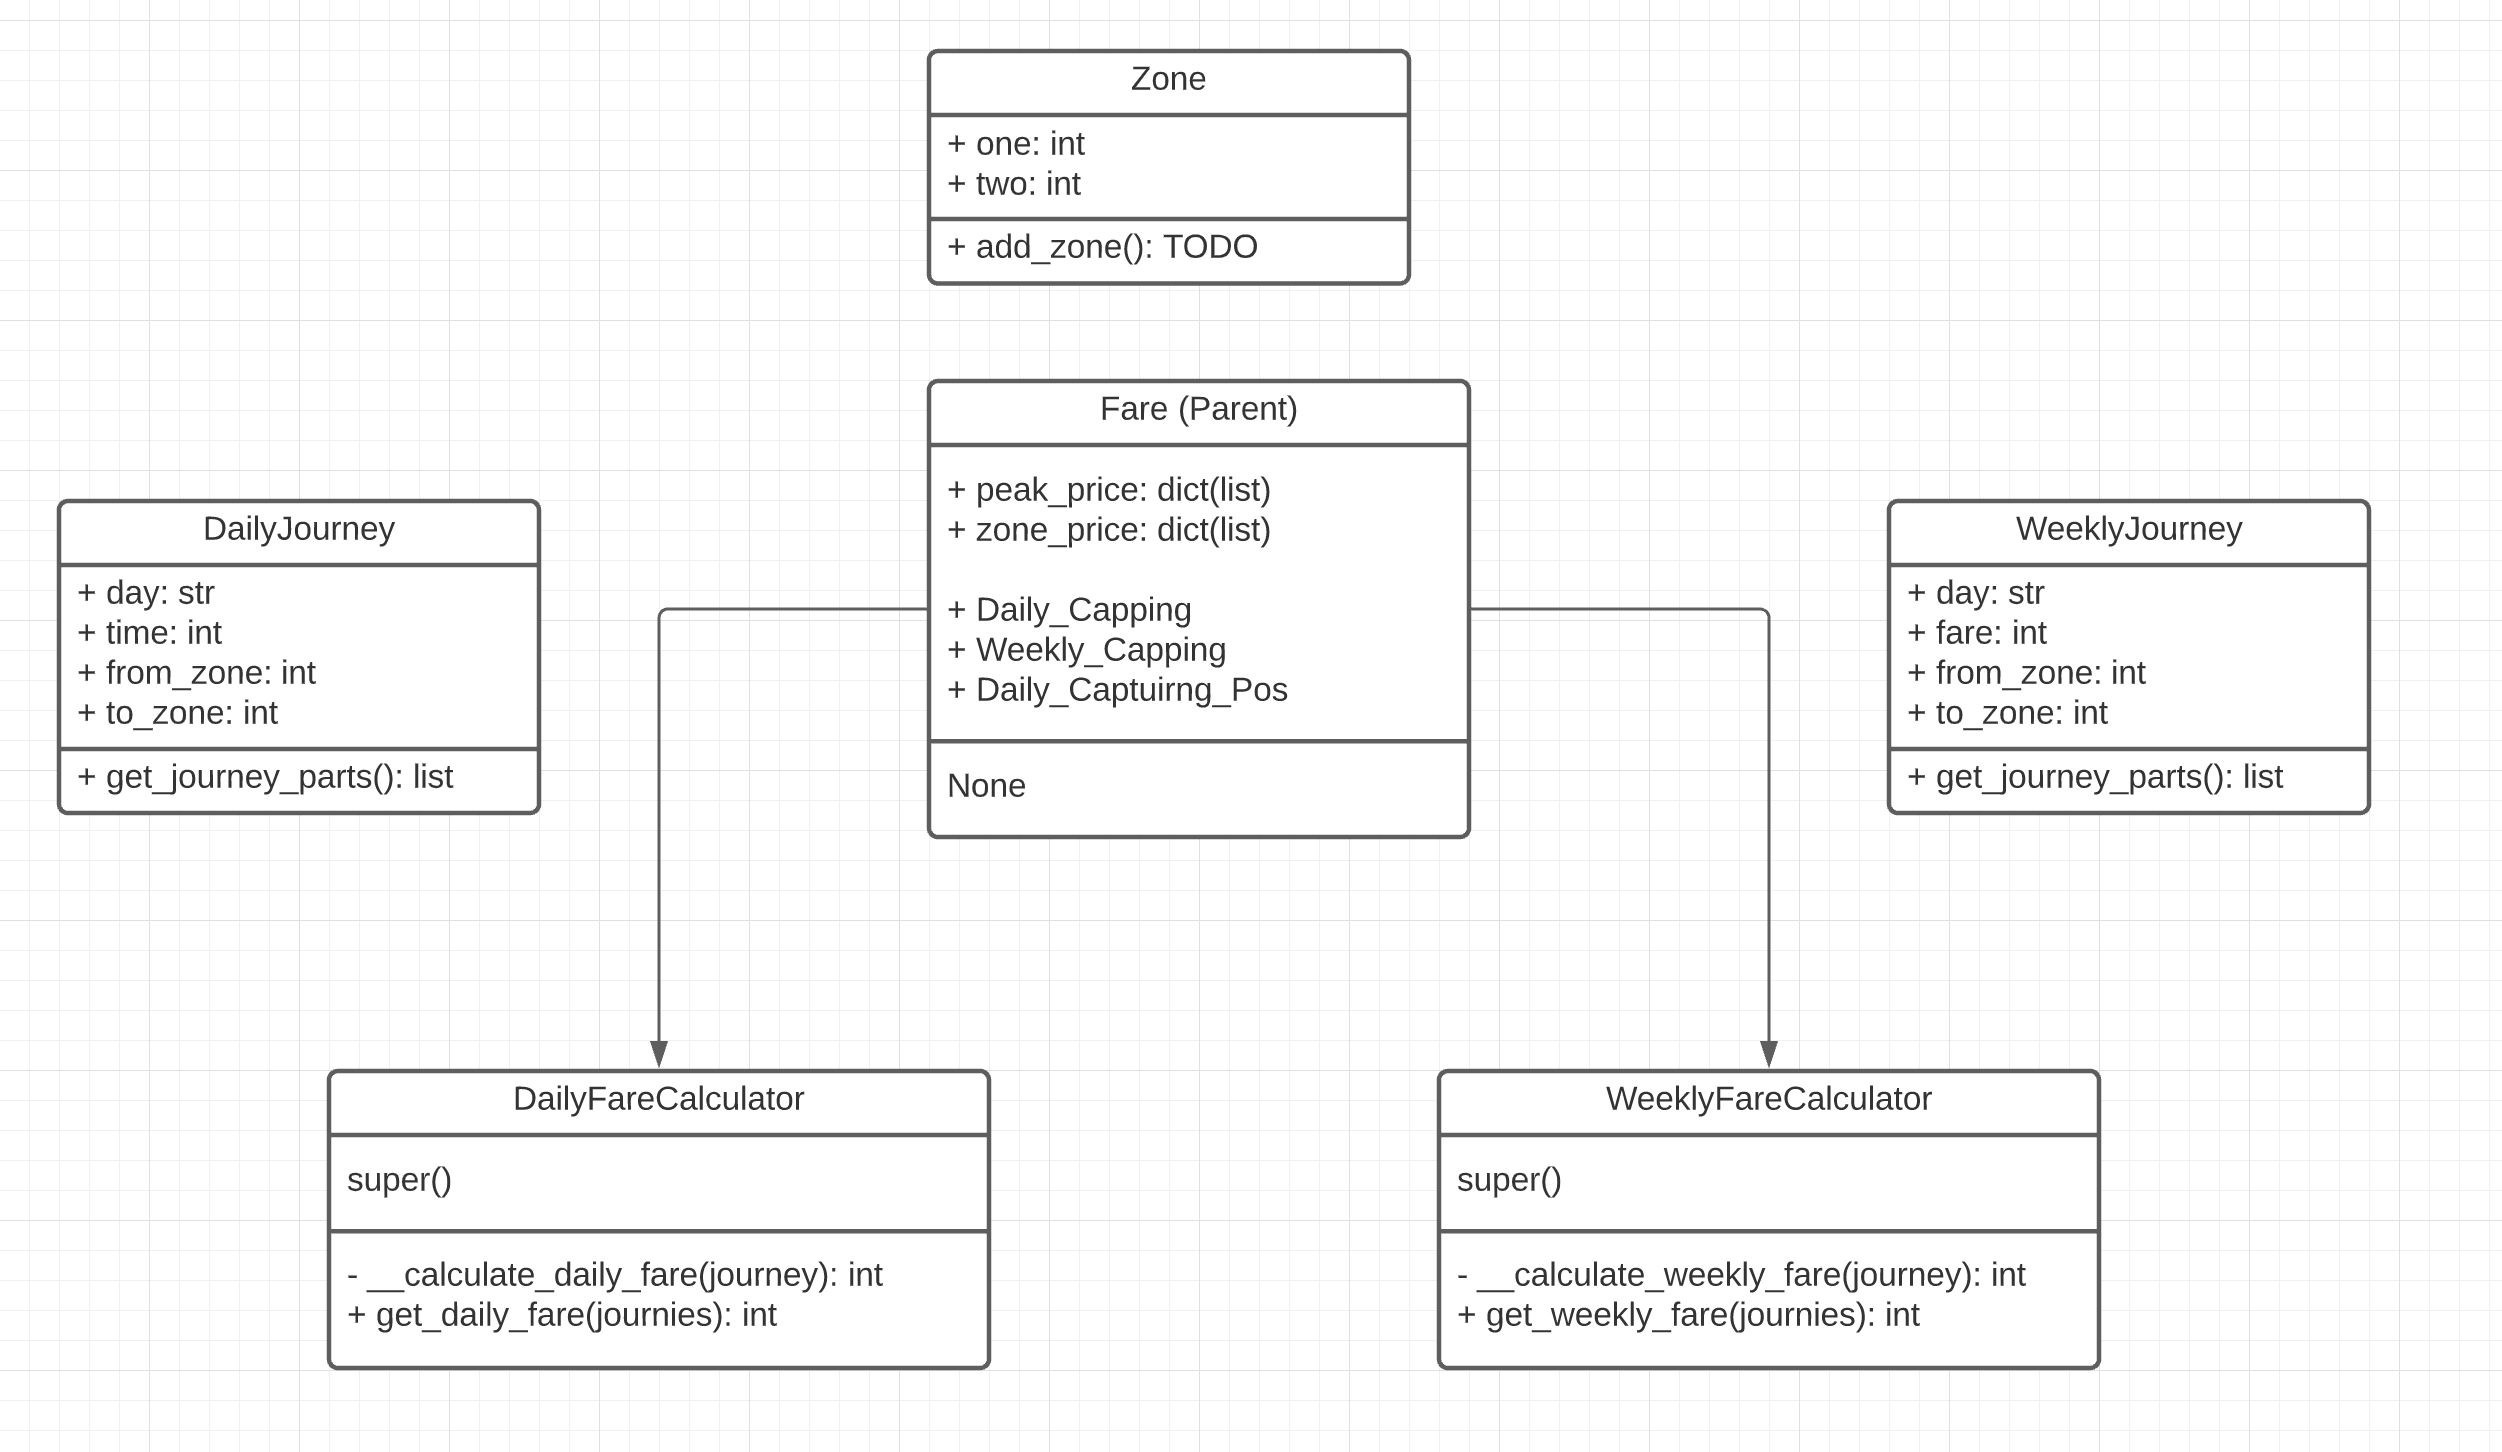
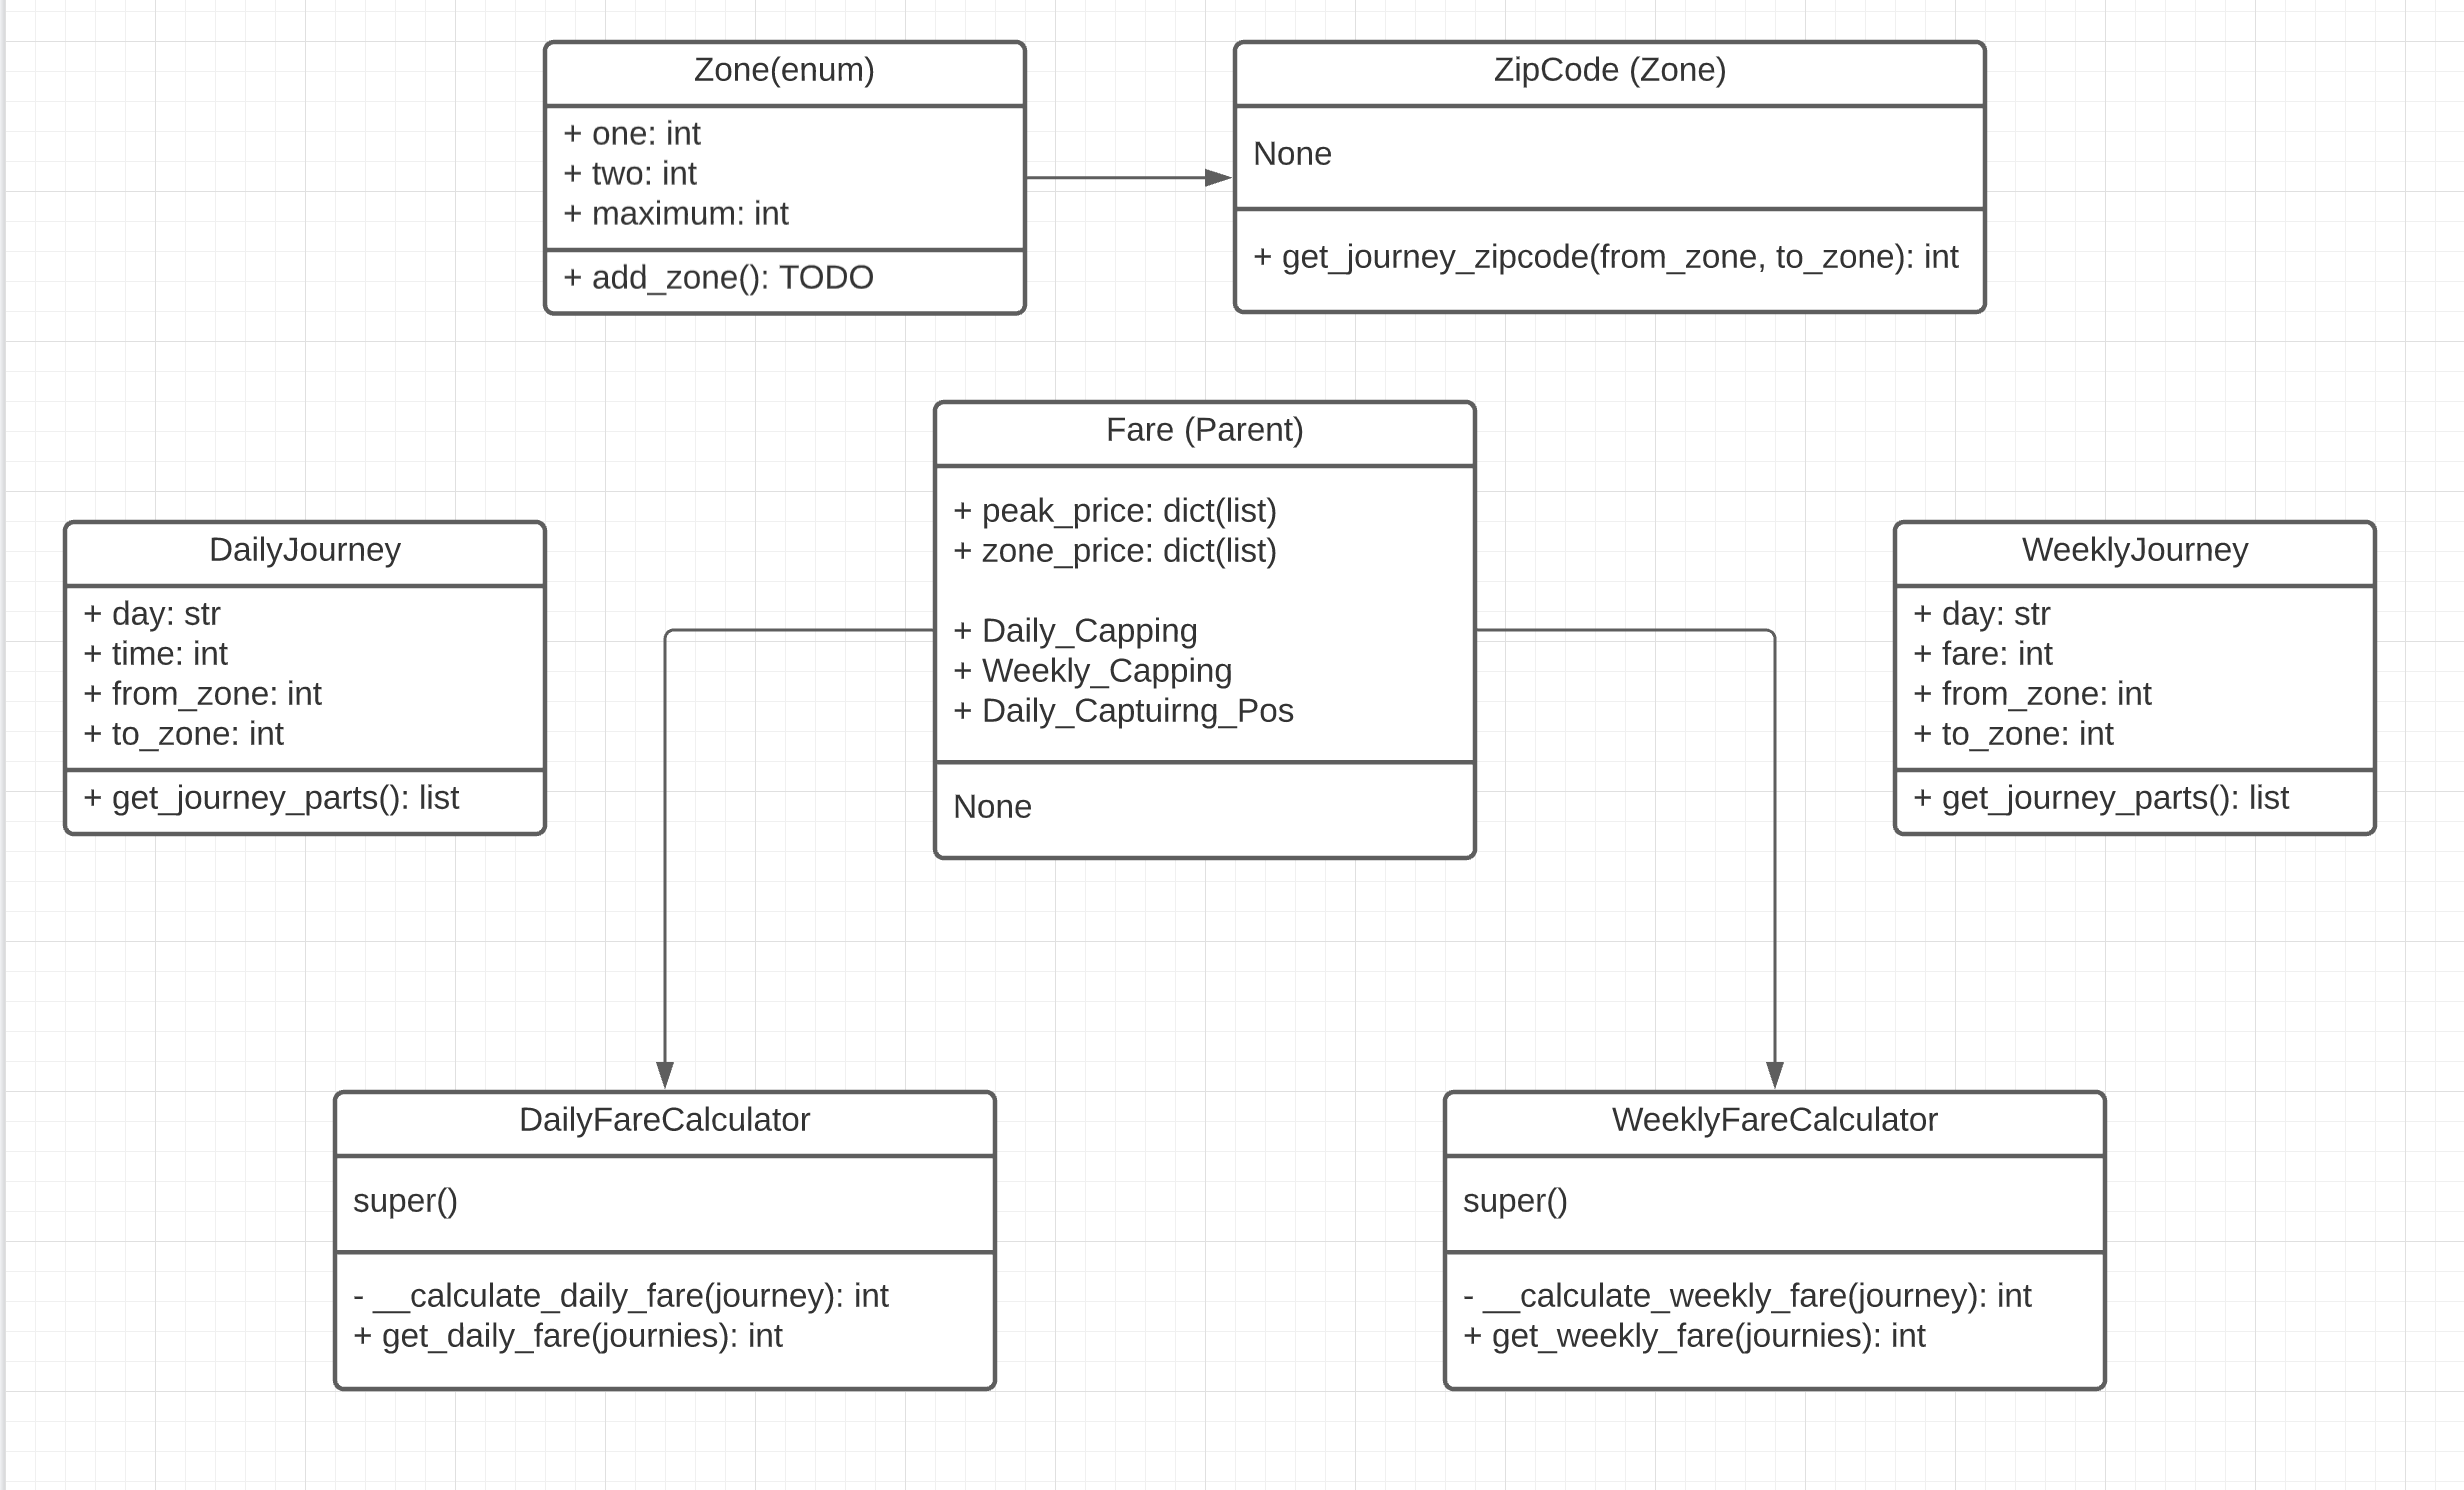
docs(README.md): update UML diagram

diff --git a/tests/results/report.html b/tests/results/report.html
@@ -243,7 +243,7 @@ function filterTable(elem) { // eslint-disable-line no-unused-vars
 }
 </script>
     <h1>report.html</h1>
-    <p>Report generated on 12-Oct-2021 at 03:45:30 by <a href="https://pypi.python.org/pypi/pytest-html">pytest-html</a> v3.1.1</p>
+    <p>Report generated on 12-Oct-2021 at 12:05:32 by <a href="https://pypi.python.org/pypi/pytest-html">pytest-html</a> v3.1.1</p>
     <h2>Environment</h2>
     <table id="environment">
       <tr>
@@ -262,7 +262,7 @@ function filterTable(elem) { // eslint-disable-line no-unused-vars
         <td>Python</td>
         <td>3.8.5</td></tr></table>
     <h2>Summary</h2>
-    <p>2 tests ran in 0.13 seconds. </p>
+    <p>2 tests ran in 0.12 seconds. </p>
     <p class="filter" hidden="true">(Un)check the boxes to filter the results.</p><input checked="true" class="filter" data-test-result="passed" hidden="true" name="filter_checkbox" onChange="filterTable(this)" type="checkbox"/><span class="passed">2 passed</span>, <input checked="true" class="filter" data-test-result="skipped" disabled="true" hidden="true" name="filter_checkbox" onChange="filterTable(this)" type="checkbox"/><span class="skipped">0 skipped</span>, <input checked="true" class="filter" data-test-result="failed" disabled="true" hidden="true" name="filter_checkbox" onChange="filterTable(this)" type="checkbox"/><span class="failed">0 failed</span>, <input checked="true" class="filter" data-test-result="error" disabled="true" hidden="true" name="filter_checkbox" onChange="filterTable(this)" type="checkbox"/><span class="error">0 errors</span>, <input checked="true" class="filter" data-test-result="xfailed" disabled="true" hidden="true" name="filter_checkbox" onChange="filterTable(this)" type="checkbox"/><span class="xfailed">0 expected failures</span>, <input checked="true" class="filter" data-test-result="xpassed" disabled="true" hidden="true" name="filter_checkbox" onChange="filterTable(this)" type="checkbox"/><span class="xpassed">0 unexpected passes</span>
     <h2>Results</h2>
     <table id="results-table">
@@ -282,8 +282,8 @@ function filterTable(elem) { // eslint-disable-line no-unused-vars
           <td class="col-links"></td></tr>
         <tr>
           <td class="extra" colspan="4">
-            <div class="log"> -------------------------------Captured log call-------------------------------- <br/>INFO     src.fare_calculators.daily_fare_calculator:daily_fare_calculator.py:59 ## journies: [[&#x27;Monday&#x27;, 10.2, 2, 1], [&#x27;Monday&#x27;, 10.45, 1, 1], [&#x27;Monday&#x27;, 16.15, 1, 1], [&#x27;Monday&#x27;, 18.15, 1, 1], [&#x27;Monday&#x27;, 19.0, 1, 2]]
-INFO     src.fare_calculators.daily_fare_calculator:daily_fare_calculator.py:63 ## Total consolidated fare for the above journies: 110<br/></div></td></tr></tbody>
+            <div class="log"> -------------------------------Captured log call-------------------------------- <br/>INFO     src.fare_calculators.daily_fare_calculator:daily_fare_calculator.py:56 ## journies: [[&#x27;Monday&#x27;, 10.2, 2, 1], [&#x27;Monday&#x27;, 10.45, 1, 1], [&#x27;Monday&#x27;, 16.15, 1, 1], [&#x27;Monday&#x27;, 18.15, 1, 1], [&#x27;Monday&#x27;, 19.0, 1, 2]]
+INFO     src.fare_calculators.daily_fare_calculator:daily_fare_calculator.py:60 ## Total consolidated fare for the above journies: 110<br/></div></td></tr></tbody>
       <tbody class="passed results-table-row">
         <tr>
           <td class="col-result">Passed</td>
@@ -292,5 +292,5 @@ INFO     src.fare_calculators.daily_fare_calculator:daily_fare_calculator.py:63 
           <td class="col-links"></td></tr>
         <tr>
           <td class="extra" colspan="4">
-            <div class="log"> -------------------------------Captured log call-------------------------------- <br/>INFO     src.fare_calculators.weekly_fare_calculator:weekly_fare_calculator.py:64 ## daily journies: [[&#x27;Monday&#x27;, 120, 1, 2], [&#x27;Tuesday&#x27;, 120, 1, 2], [&#x27;Wednesday&#x27;, 120, 1, 2], [&#x27;Thursday&#x27;, 120, 1, 2], [&#x27;Friday&#x27;, 80, 1, 1], [&#x27;Saturday&#x27;, 40, 1, 2]]
-INFO     src.fare_calculators.weekly_fare_calculator:weekly_fare_calculator.py:68 ## Total weekly consolidated fare for the above journies: 500<br/></div></td></tr></tbody></table></body></html>
+            <div class="log"> -------------------------------Captured log call-------------------------------- <br/>INFO     src.fare_calculators.weekly_fare_calculator:weekly_fare_calculator.py:63 ## daily journies: [[&#x27;Monday&#x27;, 120, 1, 2], [&#x27;Tuesday&#x27;, 120, 1, 2], [&#x27;Wednesday&#x27;, 120, 1, 2], [&#x27;Thursday&#x27;, 120, 1, 2], [&#x27;Friday&#x27;, 80, 1, 1], [&#x27;Saturday&#x27;, 40, 1, 2]]
+INFO     src.fare_calculators.weekly_fare_calculator:weekly_fare_calculator.py:67 ## Total weekly consolidated fare for the above journies: 500<br/></div></td></tr></tbody></table></body></html>

diff --git a/src/fare_calculators/weekly_fare_calculator.py b/src/fare_calculators/weekly_fare_calculator.py
@@ -1,6 +1,7 @@
 from __future__ import absolute_import
 
 from .fare import Fare
+from ..zone import ZipCode
 from utils.logger import logger
 from ..journey import WeeklyJourney
 
@@ -43,17 +44,15 @@ class WeeklyFareCalculator(Fare):
                 else:
                     return total_fare + day_final_fare
             else:
-                cross_zone_1 = from_z * 10 + to_z  # * 12
-                cross_zone_2 = to_z * 10 + from_z  # * 21
-                cross_zone = min(cross_zone_1, cross_zone_2)  # * 12
+                zipcode = ZipCode().get_journey_zipcode(from_z, to_z)
 
                 # * Check for daily capping
-                if day_fare > self.zone_price[cross_zone][self.CAPTURE_DAY_CAPPING]:
-                    day_final_fare = self.zone_price[from_z][self.CAPTURE_DAY_CAPPING]
+                if day_fare > self.zone_price[zipcode][self.CAPTURE_DAY_CAPPING]:
+                    day_final_fare = self.zone_price[zipcode][self.CAPTURE_DAY_CAPPING]
                 day_final_fare = day_fare
 
-                if total_fare + day_final_fare > self.zone_price[cross_zone][self.CAPTURE_WEEKLY_CAPPING]:
-                    return self.zone_price[cross_zone][self.CAPTURE_WEEKLY_CAPPING]
+                if total_fare + day_final_fare > self.zone_price[zipcode][self.CAPTURE_WEEKLY_CAPPING]:
+                    return self.zone_price[zipcode][self.CAPTURE_WEEKLY_CAPPING]
                 else:
                     return total_fare + day_final_fare
         except Exception as error:
@@ -71,9 +70,3 @@ class WeeklyFareCalculator(Fare):
         except Exception as error:
             logger.exception(error)
             raise error
-
-
-if __name__ == '__main__':
-    fc = FareCalculator()
-    fc.get_day_fare([['Monday', 10.45, 1, 1], ['Saturday',
-                                               16.15, 1, 2], ['Sunday', 18.15, 2, 1]])

diff --git a/src/fare_calculators/daily_fare_calculator.py b/src/fare_calculators/daily_fare_calculator.py
@@ -1,10 +1,9 @@
 from __future__ import absolute_import
 
 from .fare import Fare
+from ..zone import ZipCode
 from utils.logger import logger
 from ..journey import DailyJourney
-
-from utils.logger import logger
 
 logger = logger('INFO', __name__)
 
@@ -42,14 +41,12 @@ class DailyFareCalculator(Fare):
                     return self.DEFAULT_CAPPING_FARE
                 return self.zone_price[from_z][peak_price_applicable]
             else:
-                cross_zone_1 = from_z * 10 + to_z  # * 12
-                cross_zone_2 = to_z * 10 + from_z  # * 21
-                cross_zone = min(cross_zone_1, cross_zone_2)  # * 12
+                zipcode = ZipCode().get_journey_zipcode(from_z, to_z)
 
                 # * Check for daily capping
-                if total_fare > self.zone_price[cross_zone][self.CAPTURE_DAY_CAPPING]:
+                if total_fare > self.zone_price[zipcode][self.CAPTURE_DAY_CAPPING]:
                     return self.DEFAULT_CAPPING_FARE
-                return self.zone_price[cross_zone][peak_price_applicable]
+                return self.zone_price[zipcode][peak_price_applicable]
 
         except Exception as error:
             raise error
@@ -68,7 +65,7 @@ class DailyFareCalculator(Fare):
             raise error
 
 
-if __name__ == '__main__':
-    fc = FareCalculator()
-    fc.get_day_fare([['Monday', 10.45, 1, 1], ['Saturday',
-                                               16.15, 1, 2], ['Sunday', 18.15, 2, 1]])
+# if __name__ == '__main__':
+#     fc = FareCalculator()
+#     fc.get_day_fare([['Monday', 10.45, 1, 1], ['Saturday',
+#                                                16.15, 1, 2], ['Sunday', 18.15, 2, 1]])

diff --git a/src/zone.py b/src/zone.py
@@ -5,5 +5,22 @@ import enum
 class Zone(enum.Enum):
     one = 1
     two = 2
+    maximum = 999  # * Soft limit
 
     # * TODO: Add zone here.
+
+
+class ZipCode(object):
+    def __init__(self):
+        pass
+
+    def get_journey_zipcode(self, from_z: int, to_z: int):
+        if from_z == to_z:
+            return from_z
+
+        cross_zone_1 = from_z * (Zone.maximum.value + 1) + to_z  # * 12
+        cross_zone_2 = to_z * (Zone.maximum.value + 1) + from_z  # * 21
+        cross_zipcode = min(cross_zone_1, cross_zone_2)  # * 12
+        return cross_zipcode
+
+        # * Note: As per the above logic maxm zone can be available

diff --git a/src/fare_calculators/fare.py b/src/fare_calculators/fare.py
@@ -20,8 +20,8 @@ class Fare(object):
             # * Zone.x : [non_peak_price - 0, peak_price - 1, day_capping - 2, weekly_capping - 3]
             Zone.one.value: [25, 30, 100, 500],
             Zone.two.value: [20, 25, 120, 400],
-            # * Cross zones price
-            Zone.one.value * 10 + Zone.two.value: [20, 25, 80, 600]
+            # * Cross zones prices based on zipcode
+            Zone.one.value * 1000 + Zone.two.value: [20, 25, 80, 600]
         }
 
         self.DEFAULT_CAPPING_FARE = 5
